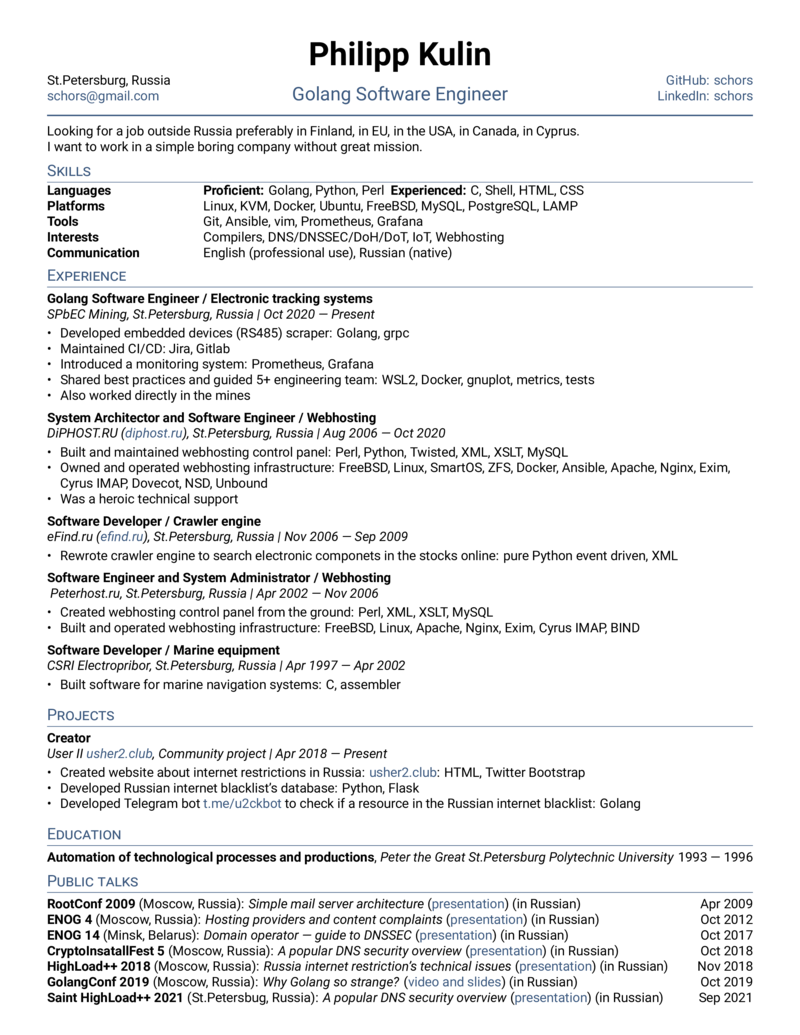
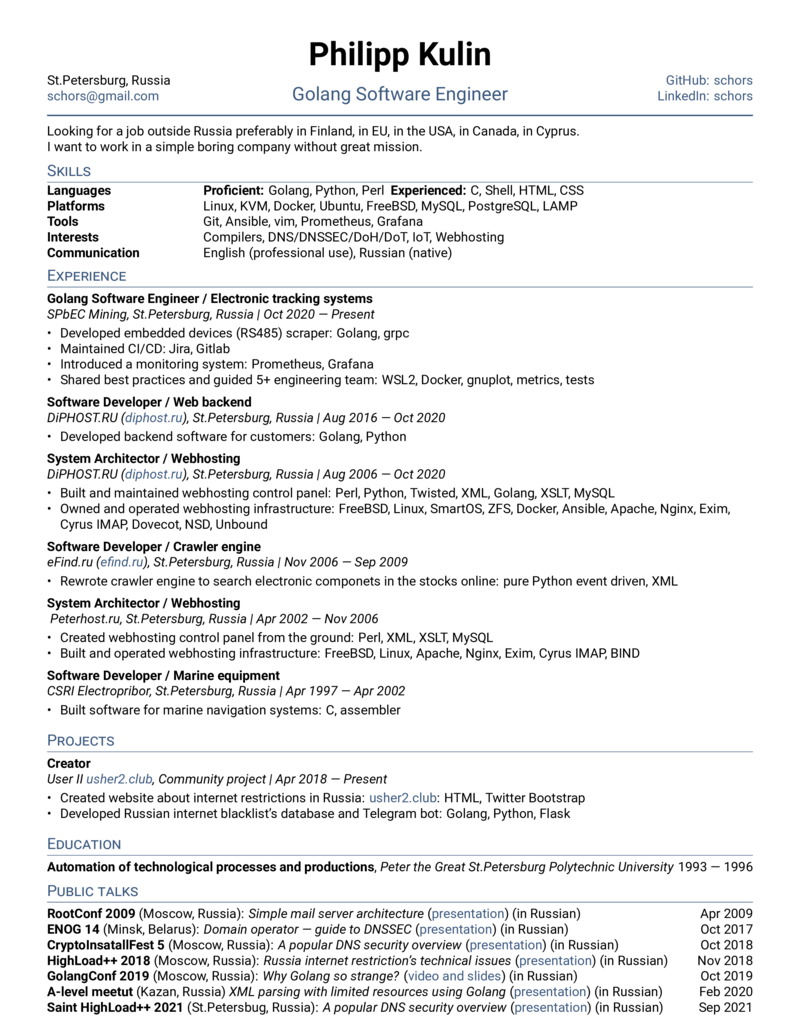
change: change facts in GO cv

Changed region(s): [[0.0312, 0.371, 0.9375, 0.9894]]

diff --git a/gosections/experience.tex b/gosections/experience.tex
@@ -9,15 +9,19 @@
 \item Maintained CI/CD: Jira, Gitlab
 \item Introduced a monitoring system: Prometheus, Grafana
 \item Shared best practices and guided 5+ engineering team: WSL2, Docker, gnuplot, metrics, tests
-\item Also worked directly in the mines
 \end{zitemize}
 
-\subsection{{System Architector and Software Engineer / Webhosting}}
+\subsection{{Software Developer / Web backend}}
+\subtext{DiPHOST.RU (\href{https://diphost.ru}{diphost.ru}), St.Petersburg, Russia | Aug 2016 --- Oct 2020}
+\begin{zitemize}
+\item Developed backend software for customers: Golang, Python
+\end{zitemize}
+
+\subsection{{System Architector / Webhosting}}
 \subtext{DiPHOST.RU (\href{https://diphost.ru}{diphost.ru}), St.Petersburg, Russia | Aug 2006 --- Oct 2020}
 \begin{zitemize}
-\item Built and maintained webhosting control panel: Perl, Python, Twisted, XML, XSLT, MySQL
+\item Built and maintained webhosting control panel: Perl, Python, Twisted, XML, Golang, XSLT, MySQL
 \item Owned and operated webhosting infrastructure: FreeBSD, Linux, SmartOS, ZFS, Docker, Ansible, Apache, Nginx, Exim, Cyrus IMAP, Dovecot, NSD, Unbound
-\item Was a heroic technical support
 \end{zitemize}
 
 \subsection{{Software Developer / Crawler engine}}
@@ -26,7 +30,7 @@
 \item Rewrote crawler engine to search electronic componets in the stocks online: pure Python event driven, XML
 \end{zitemize}
 
-\subsection{{Software Engineer and System Administrator / Webhosting}}
+\subsection{{System Architector / Webhosting}}
 \subtext{ Peterhost.ru, St.Petersburg, Russia | Apr 2002 --- Nov 2006}
 \begin{zitemize}
 \item Created webhosting control panel from the ground: Perl, XML, XSLT, MySQL

diff --git a/gosections/pubtalks.tex b/gosections/pubtalks.tex
@@ -1,7 +1,5 @@
 \skills{RootConf 2009} (Moscow, Russia): \textit{Simple mail server architecture} (\href{https://www.slideshare.net/Dolce727/ss-1278915}{presentation}) (in Russian) \hfill Apr 2009
 
-\skills{ENOG 4} (Moscow, Russia): \textit{Hosting providers and content complaints} (\href{https://www.slideshare.net/schors/ss-15356275}{presentation}) (in Russian) \hfill Oct 2012
-
 \skills{ENOG 14} (Minsk, Belarus): \textit{Domain operator --- guide to DNSSEC} (\href{https://www.slideshare.net/schors/enog14-dnssec}{presentation}) (in Russian) \hfill Oct 2017
 
 \skills{CryptoInsatallFest 5} (Moscow, Russia): \textit{A popular DNS security overview} (\href{https://www.slideshare.net/schors/a-popular-dns-security-overview-modern-theory-and-practice-116166410}{presentation}) (in Russian) \hfill Oct 2018
@@ -9,6 +7,8 @@
 \skills{HighLoad++ 2018} (Moscow, Russia): \textit{Russia internet restriction's technical issues} (\href{https://www.slideshare.net/schors/ss-123038251}{presentation}) (in Russian) \hfill Nov 2018
 
 \skills{GolangConf 2019} (Moscow, Russia): \textit{Why Golang so strange?} (\href{https://golangconf.ru/2019/abstracts/5753}{video and slides}) (in Russian) \hfill Oct 2019
+
+\skills{A-level meetut} (Kazan, Russia) \textit{XML parsing with limited resources using Golang}  (\href{https://www.slideshare.net/schors/xml-vds}{presentation}) (in Russian) \hfill Feb 2020
 
 \skills{Saint HighLoad++ 2021} (St.Petersbug, Russia): \textit{A popular DNS security overview} (\href{https://www.slideshare.net/schors/a-popular-dns-security-overview}{presentation}) (in Russian) \hfill Sep 2021
 

diff --git a/gosections/projects.tex b/gosections/projects.tex
@@ -6,8 +6,7 @@
 \subtext{User II \href{https://usher2.club}{usher2.club}, Community project | Apr 2018 --- Present}
 \begin{zitemize}
 \item Created website about internet restrictions in Russia: \href{https://usher2.club}{usher2.club}: HTML, Twitter Bootstrap
-\item Developed Russian internet blacklist's database: Python, Flask
-\item Developed Telegram bot \href{https://t.me/u2ckbot}{t.me/u2ckbot} to check if a resource in the Russian internet blacklist: Golang
+\item Developed Russian internet blacklist's database and Telegram bot: Golang, Python, Flask
 \end{zitemize}
 
 \end{document}
